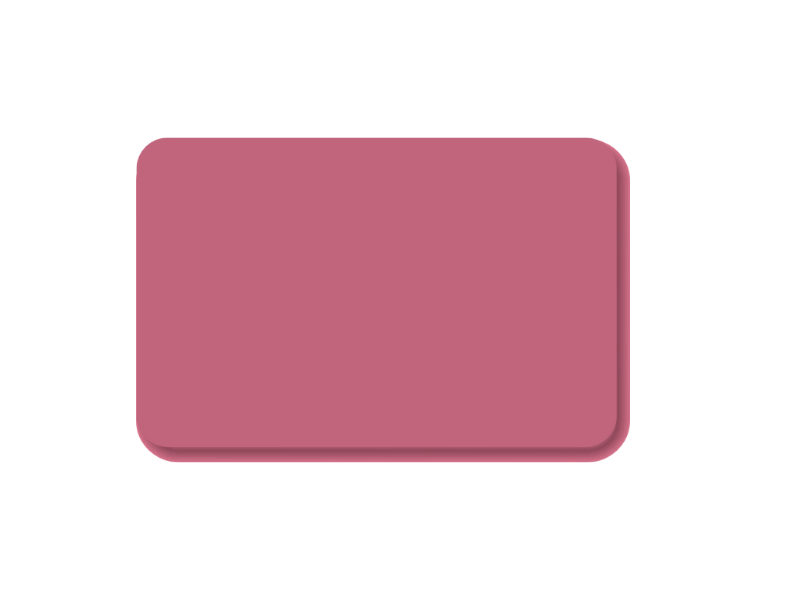
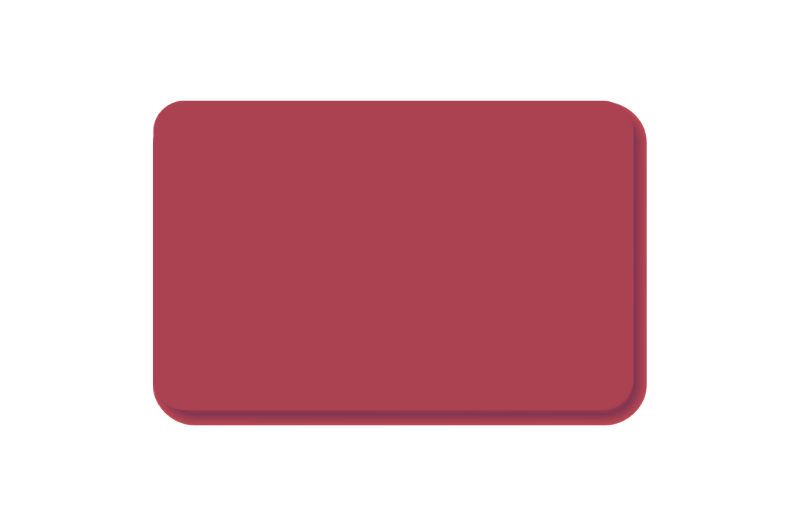
Implemented front flashcard UI
Changed image dimensions/design, implemented front flashcard format.

diff --git a/main.py b/main.py
@@ -1,0 +1,33 @@
+from tkinter import *
+
+BLONDE = "#F9FBE7"
+BEIGE = "#F0EDD4"
+ORANGE = "#ECCDB4"
+SALMON = "#FEA1A1"
+
+# Set up window
+window = Tk()
+window.title("Sino Flashcards")
+window.config(padx=50, pady=50, bg=ORANGE)
+
+# Front flashcard UI
+flashcard = Canvas(width=800, height=526, bg=ORANGE, highlightthickness=0)
+front_image = PhotoImage(file="images/front.png")
+flashcard.create_image(400, 263, image=front_image)
+language = flashcard.create_text(400, 180, text="Mandarin", font=("Arial", 20, "italic"))
+word = flashcard.create_text(400, 270, text="的 (de)", font=("Arial", 40, "bold"))
+flashcard.grid(column=0, row=0, columnspan=2)
+
+# Correct button
+check_image = PhotoImage(file="images/check.png")
+correct_button = Button(image=check_image, bg=ORANGE, highlightthickness=0, bd=0, activebackground=ORANGE, highlightbackground=ORANGE)
+correct_button.grid(column=1, row=1)
+
+# Incorrect Button
+wrong_image = PhotoImage(file="images/wrong.png")
+incorrect_button = Button(image=wrong_image, bg=ORANGE, highlightthickness=0, bd=0, activebackground=ORANGE, highlightbackground=ORANGE)
+incorrect_button.grid(column=0, row=1)
+
+
+
+window.mainloop()
